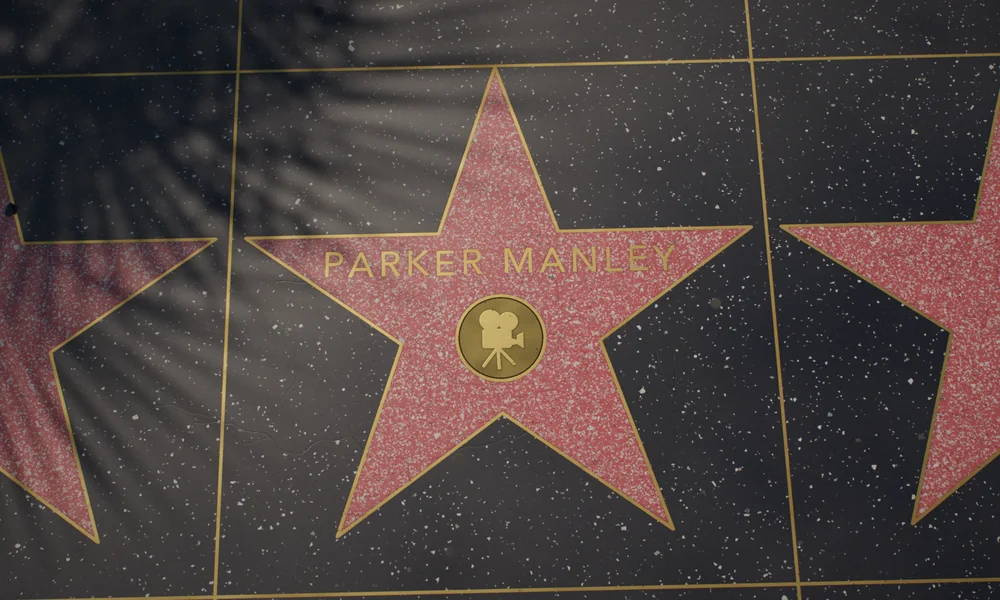
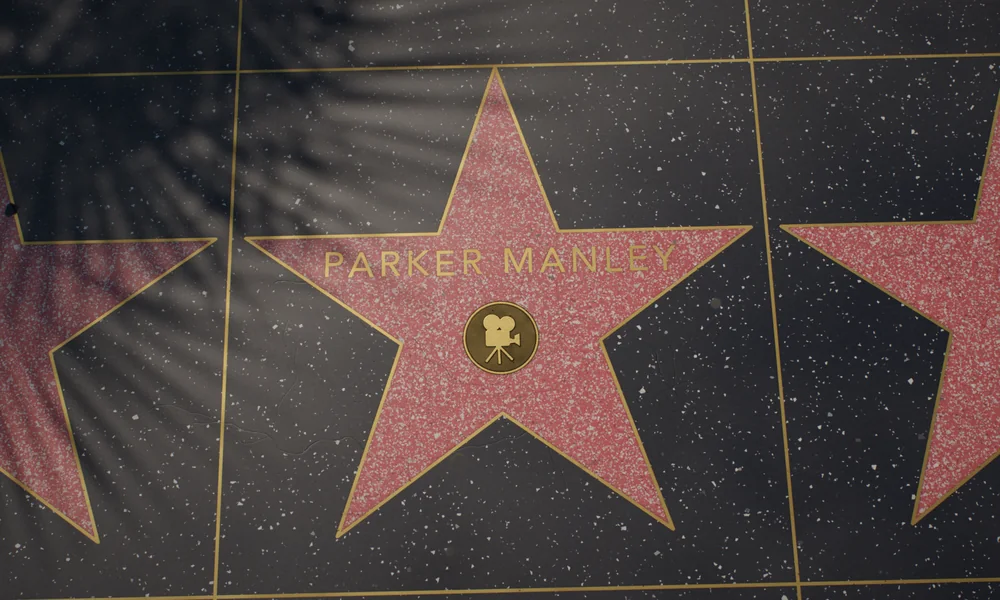
feat: Parker walks in on a green screen, the key is pulled into his real shot, then the slate. Star medallion relit

Changed region(s): [[0.434, 0.48, 0.558, 0.66]]

diff --git a/src/styles.css b/src/styles.css
@@ -3137,3 +3137,14 @@ body:not(.is-home) .foot__pin { position: relative; height: 60svh; opacity: 1; }
 .draft-slate::after { content: "Clap it to send"; position: absolute; left: 0; right: 0; bottom: -46px; text-align: center; font: 500 26px/1 "Caveat", cursive; color: #ece4d2; text-shadow: 0 1px 8px rgba(0,0,0,0.85); pointer-events: none; }
 .draft-slate .form__status { bottom: -84px !important; text-align: center; color: #ece4d2; text-shadow: 0 1px 8px rgba(0,0,0,0.85); }
 .end__links { margin-top: 110px; }
+
+/* Green screen into the real shot. All three layers are the same photo
+   size with the same crop, so the cutout lands exactly on himself. */
+.end__green, .end__parker { display: none; }
+@media (min-width: 900px) {
+  .end__green, .end__parker { display: block; position: absolute; inset: 0; width: 100%; height: 100%; object-fit: cover; object-position: 30% 30%; pointer-events: none; }
+  .end__green { opacity: calc(1 - var(--key, 0)); }
+  .end__parker { transform: translateX(calc((1 - var(--enter, 0)) * -42%)); }
+  .irisout { height: 320vh !important; }
+}
+@media (min-width: 900px) { .irisout__card { transform: translate(calc((1 - var(--in, 0)) * 170%), -50%) rotate(calc((1 - var(--in, 0)) * 8deg - 2deg)) !important; } }

diff --git a/src/app.js b/src/app.js
@@ -840,9 +840,18 @@
       // it comes in before a take. No masks, no circles.
       const top = iris.getBoundingClientRect().top + scrollY;
       const p = Math.max(0, Math.min(1, (scrollY - top) / (iris.offsetHeight - innerHeight)));
-      const e = reduced ? 1 : 1 - (1 - Math.min(1, p / 0.45)) ** 3;
+      // Parker walks into frame on a green screen, then the key is pulled
+      // and the green becomes the real forest he shot it in. Then the slate.
+      const ease = (x) => 1 - (1 - Math.max(0, Math.min(1, x))) ** 3;
+      const enter = reduced ? 1 : ease(p / 0.22);
+      const key = reduced ? 1 : Math.max(0, Math.min(1, (p - 0.34) / 0.05));
+      const e = reduced ? 1 : ease((p - 0.5) / 0.25);
+      iris.style.setProperty("--enter", enter.toFixed(3));
+      iris.style.setProperty("--key", key.toFixed(3));
       iris.style.setProperty("--in", e.toFixed(3));
-      if (p > 0.4 && window.score) window.score.motif("strings");
+      if (key > 0.05 && !iris.dataset.keyed) { iris.dataset.keyed = "1"; sfx.chk(); }
+      if (key === 0) delete iris.dataset.keyed;
+      if (p > 0.55 && window.score) window.score.motif("strings");
       iris.classList.toggle("is-closed", e > 0.92);
     };
   }

diff --git a/build.py b/build.py
@@ -639,6 +639,8 @@ def home(films):
     <div class="irisout__pin">
       <img class="irisout__img" src="/media/portraits/rock.jpg" alt="Parker framing a shot on a granite outcrop above a pine forest" loading="lazy">
       <div class="irisout__mask" aria-hidden="true"></div>
+      <img class="end__green" src="/media/props/end/greenscreen.webp" alt="" aria-hidden="true">
+      <img class="end__parker" src="/media/props/end/parker-fg.webp" alt="" aria-hidden="true">
       <div class="irisout__card">
         <h2 id="contact-h" class="sr-only">Your film</h2>
   <div class="slate draft-slate">
